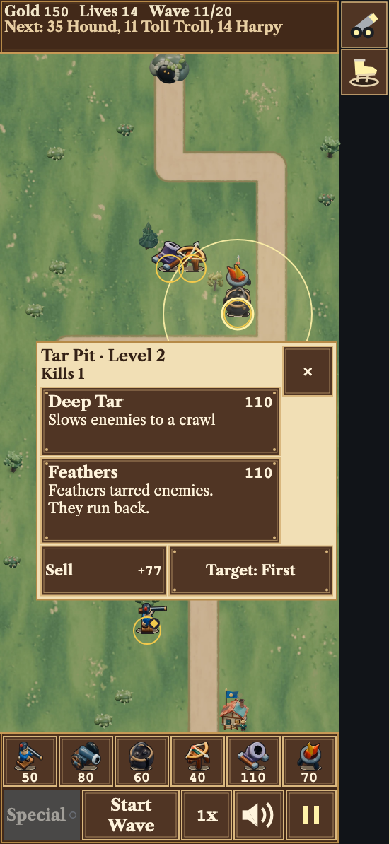
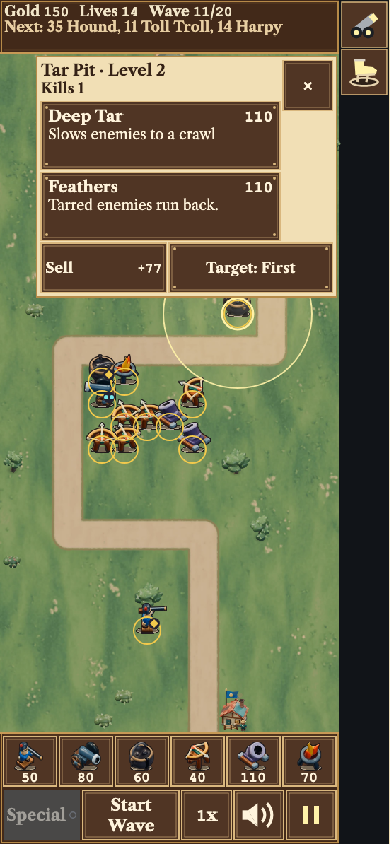
Shorten the Feathers card line and widen its macOS fit checks

diff --git a/e2e/feathers.ts b/e2e/feathers.ts
@@ -59,8 +59,10 @@ export function featherLooks(look: string, phone: boolean) {
 }
 
 export function featherLabels(phone: boolean) {
-  test('the level 9 feather tip fits with six percent wider text', async ({ page }) => {
-    await useWideFontMetrics(page);
+  // Linux draws the bundled font about 2.6% wider than macOS before scaling.
+  const factor = process.platform === 'darwin' ? 1.09 : 1.06;
+  test('the level 9 feather tip fits with wider text', async ({ page }) => {
+    await useWideFontMetrics(page, factor);
     await page.goto('/?test=1');
     await waitForFirstScreen(page, { showTips: true });
     await api(page, t => t.setCampaignProgress(Object.fromEntries(Array.from({ length: 8 }, (_, i) => [i + 1, 3]))));
@@ -75,8 +77,8 @@ export function featherLabels(phone: boolean) {
     await checkSpacing(page);
   });
 
-  test('the Feathers description fits its card with six percent wider text', async ({ page }) => {
-    await useWideFontMetrics(page);
+  test('the Feathers description fits its card with wider text', async ({ page }) => {
+    await useWideFontMetrics(page, factor);
     await start(page, 'painted');
     await page.evaluate(() => {
       const t = window.__tarpit as TarpitTestApi;
@@ -86,7 +88,7 @@ export function featherLabels(phone: boolean) {
       t.state().gold = 0;
     });
     await mapPress(page, 7, 5, phone);
-    const text = 'Feathers tarred enemies. They run back.';
+    const text = 'Tarred enemies run back.';
     const label = await page.evaluate(text => {
       const t = window.__tarpit as TarpitTestApi;
       const box = t.uiRects()['panel:path:B'];

diff --git a/e2e/campaignFont.ts b/e2e/campaignFont.ts
@@ -24,13 +24,13 @@ export async function useTallFontMetrics(page: Page, fallback = true) {
 }
 
 /** Vary every measured advance while preserving the browser's other font metrics. */
-export async function useWideFontMetrics(page: Page) {
-  await page.addInitScript(() => {
+export async function useWideFontMetrics(page: Page, factor = 1.06) {
+  await page.addInitScript(factor => {
     const measure = CanvasRenderingContext2D.prototype.measureText;
     CanvasRenderingContext2D.prototype.measureText = function (text) {
       const metrics = measure.call(this, text);
-      Object.defineProperty(metrics, 'width', { value: metrics.width * 1.06 });
+      Object.defineProperty(metrics, 'width', { value: metrics.width * factor });
       return metrics;
     };
-  });
+  }, factor);
 }

diff --git a/src/game/names.ts b/src/game/names.ts
@@ -169,7 +169,7 @@ export function towerPanelTitle(type: TowerType, level: TowerLevel, path?: Upgra
 const PATH_DESCRIPTIONS: Readonly<Record<TowerType, Record<UpgradePath, string>>> = {
   musketeer: { A: 'Farther, harder shots', B: 'Fires much faster' },
   cannon: { A: 'A much bigger blast', B: 'Fires twice as fast' },
-  tarpit: { A: 'Slows enemies to a crawl', B: 'Feathers tarred enemies. They run back.' },
+  tarpit: { A: 'Slows enemies to a crawl', B: 'Tarred enemies run back.' },
   longbow: { A: 'Hits almost twice as hard', B: 'Fires almost twice as fast' },
   mortar: { A: 'Hits much harder', B: 'Blast reaches twice as far' },
   firepot: { A: 'Hotter, shorter burns', B: 'Burns twice as long' },

diff --git a/src/game/ui/towerPanelModel.test.ts b/src/game/ui/towerPanelModel.test.ts
@@ -60,7 +60,7 @@ describe('tower upgrade choices', () => {
         const description = pathDescription(type, path);
         const comparisons = Object.entries(descriptionStats[type][path]) as [keyof TowerLevelStats, ComparisonBand][];
         if (type === 'tarpit' && path === 'B') {
-          expect(description).toBe('Feathers tarred enemies. They run back.');
+          expect(description).toBe('Tarred enemies run back.');
           continue;
         }
         const claimedBand = description.match(/\balmost twice\b|\btwice\b|\bmuch\b/)?.[0] ?? 'more';

diff --git a/docs/DESIGN.md b/docs/DESIGN.md
@@ -458,7 +458,7 @@ Touch targets on the portrait phone measure at least 44 CSS px on both axes.
 | Heavy Shot | A much bigger blast |
 | Quick Loader | Fires twice as fast |
 | Deep Tar | Slows enemies to a crawl |
-| Feathers | Feathers tarred enemies. They run back. |
+| Feathers | Tarred enemies run back. |
 | War Bow | Hits almost twice as hard |
 | Quick Draw | Fires almost twice as fast |
 | Siege Shell | Hits much harder |
